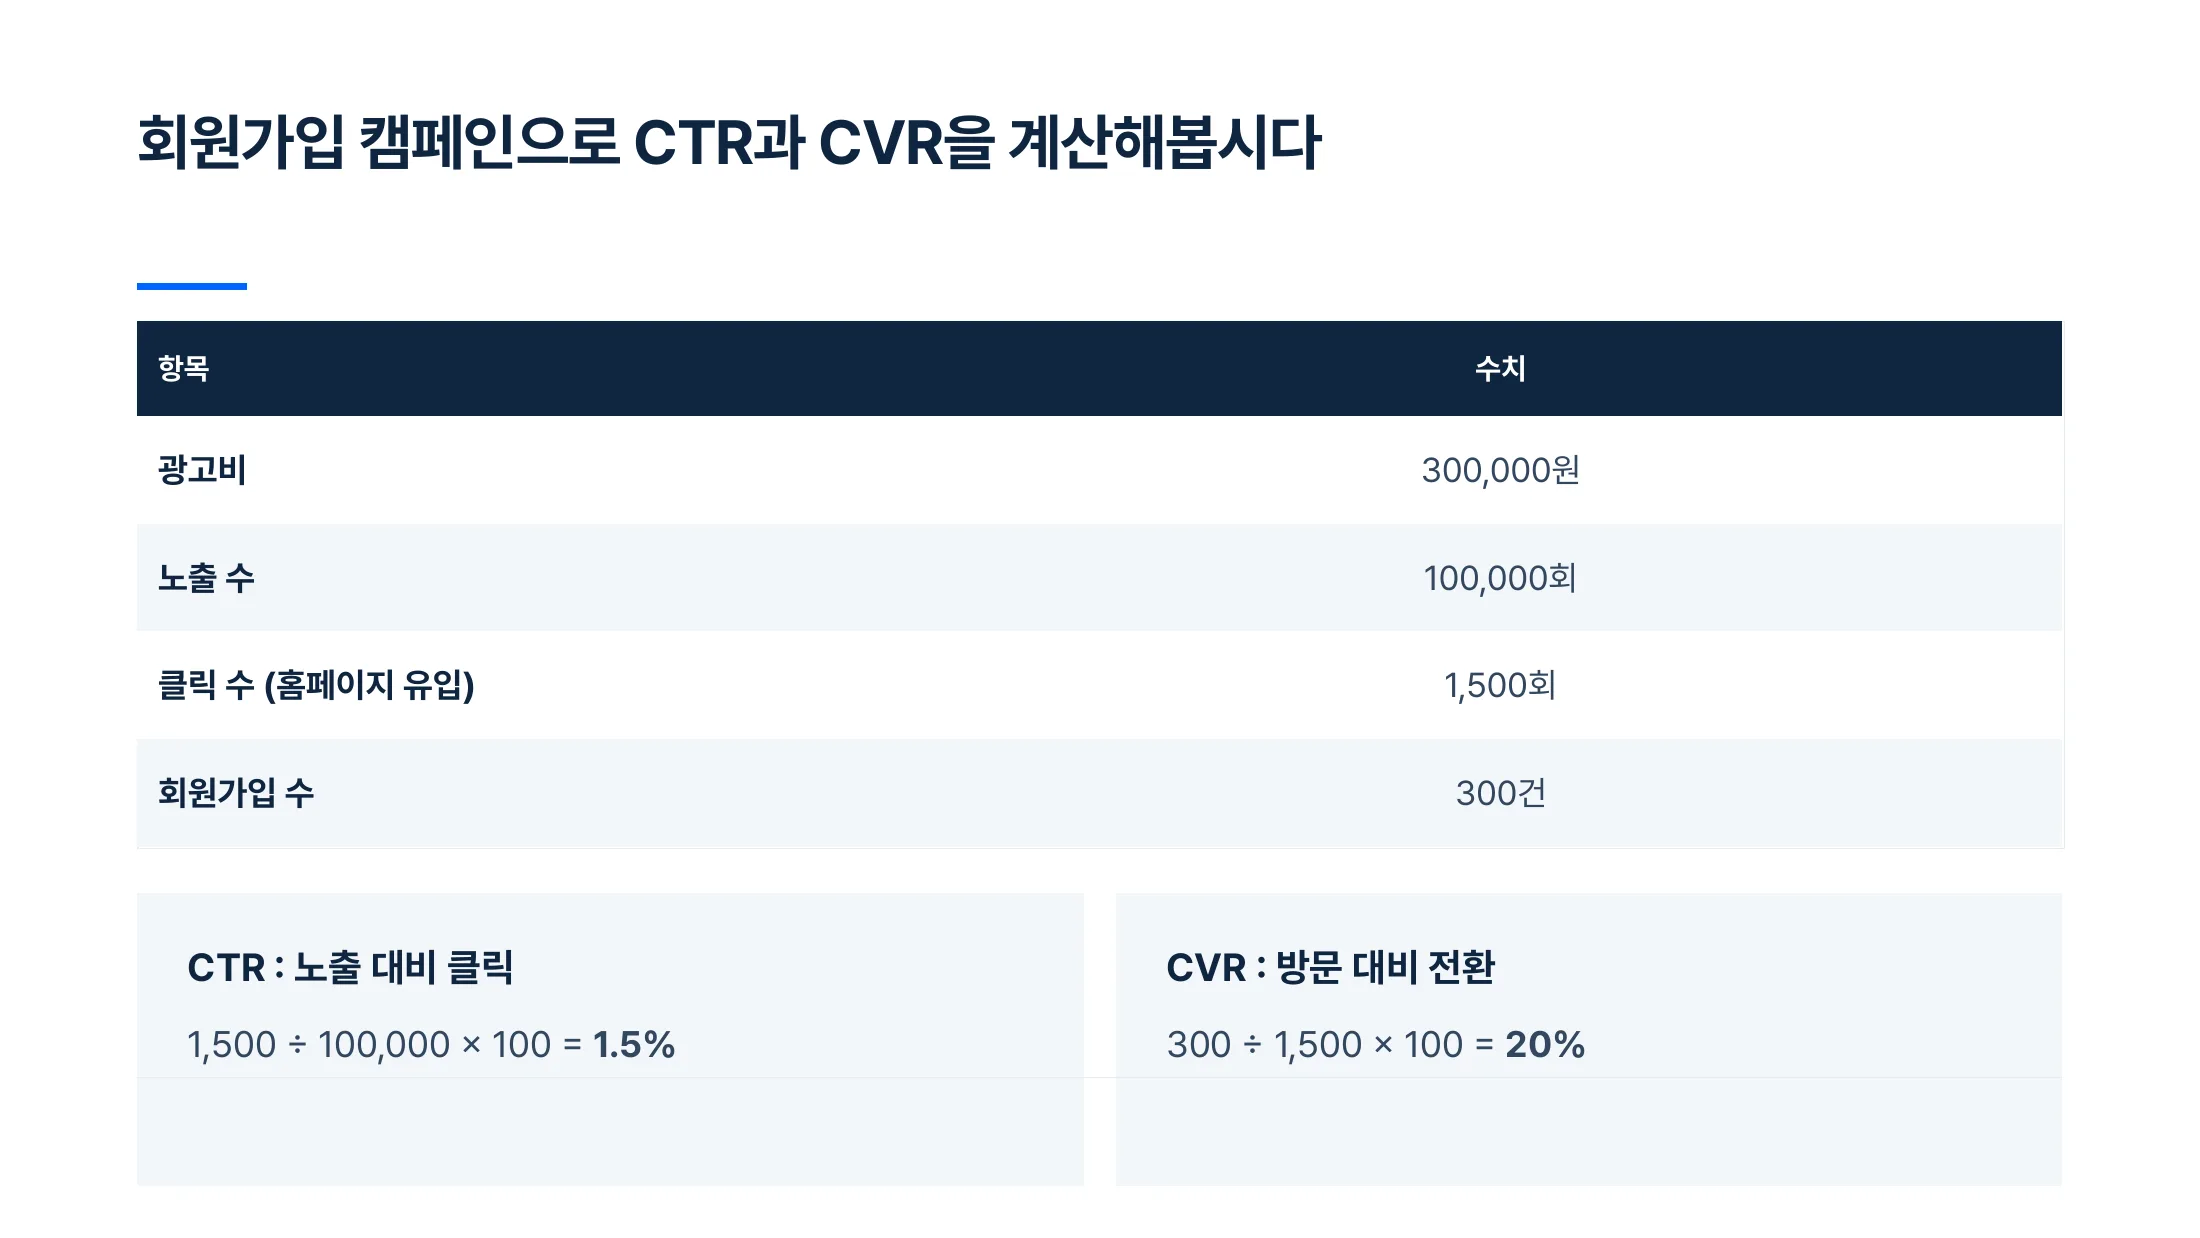
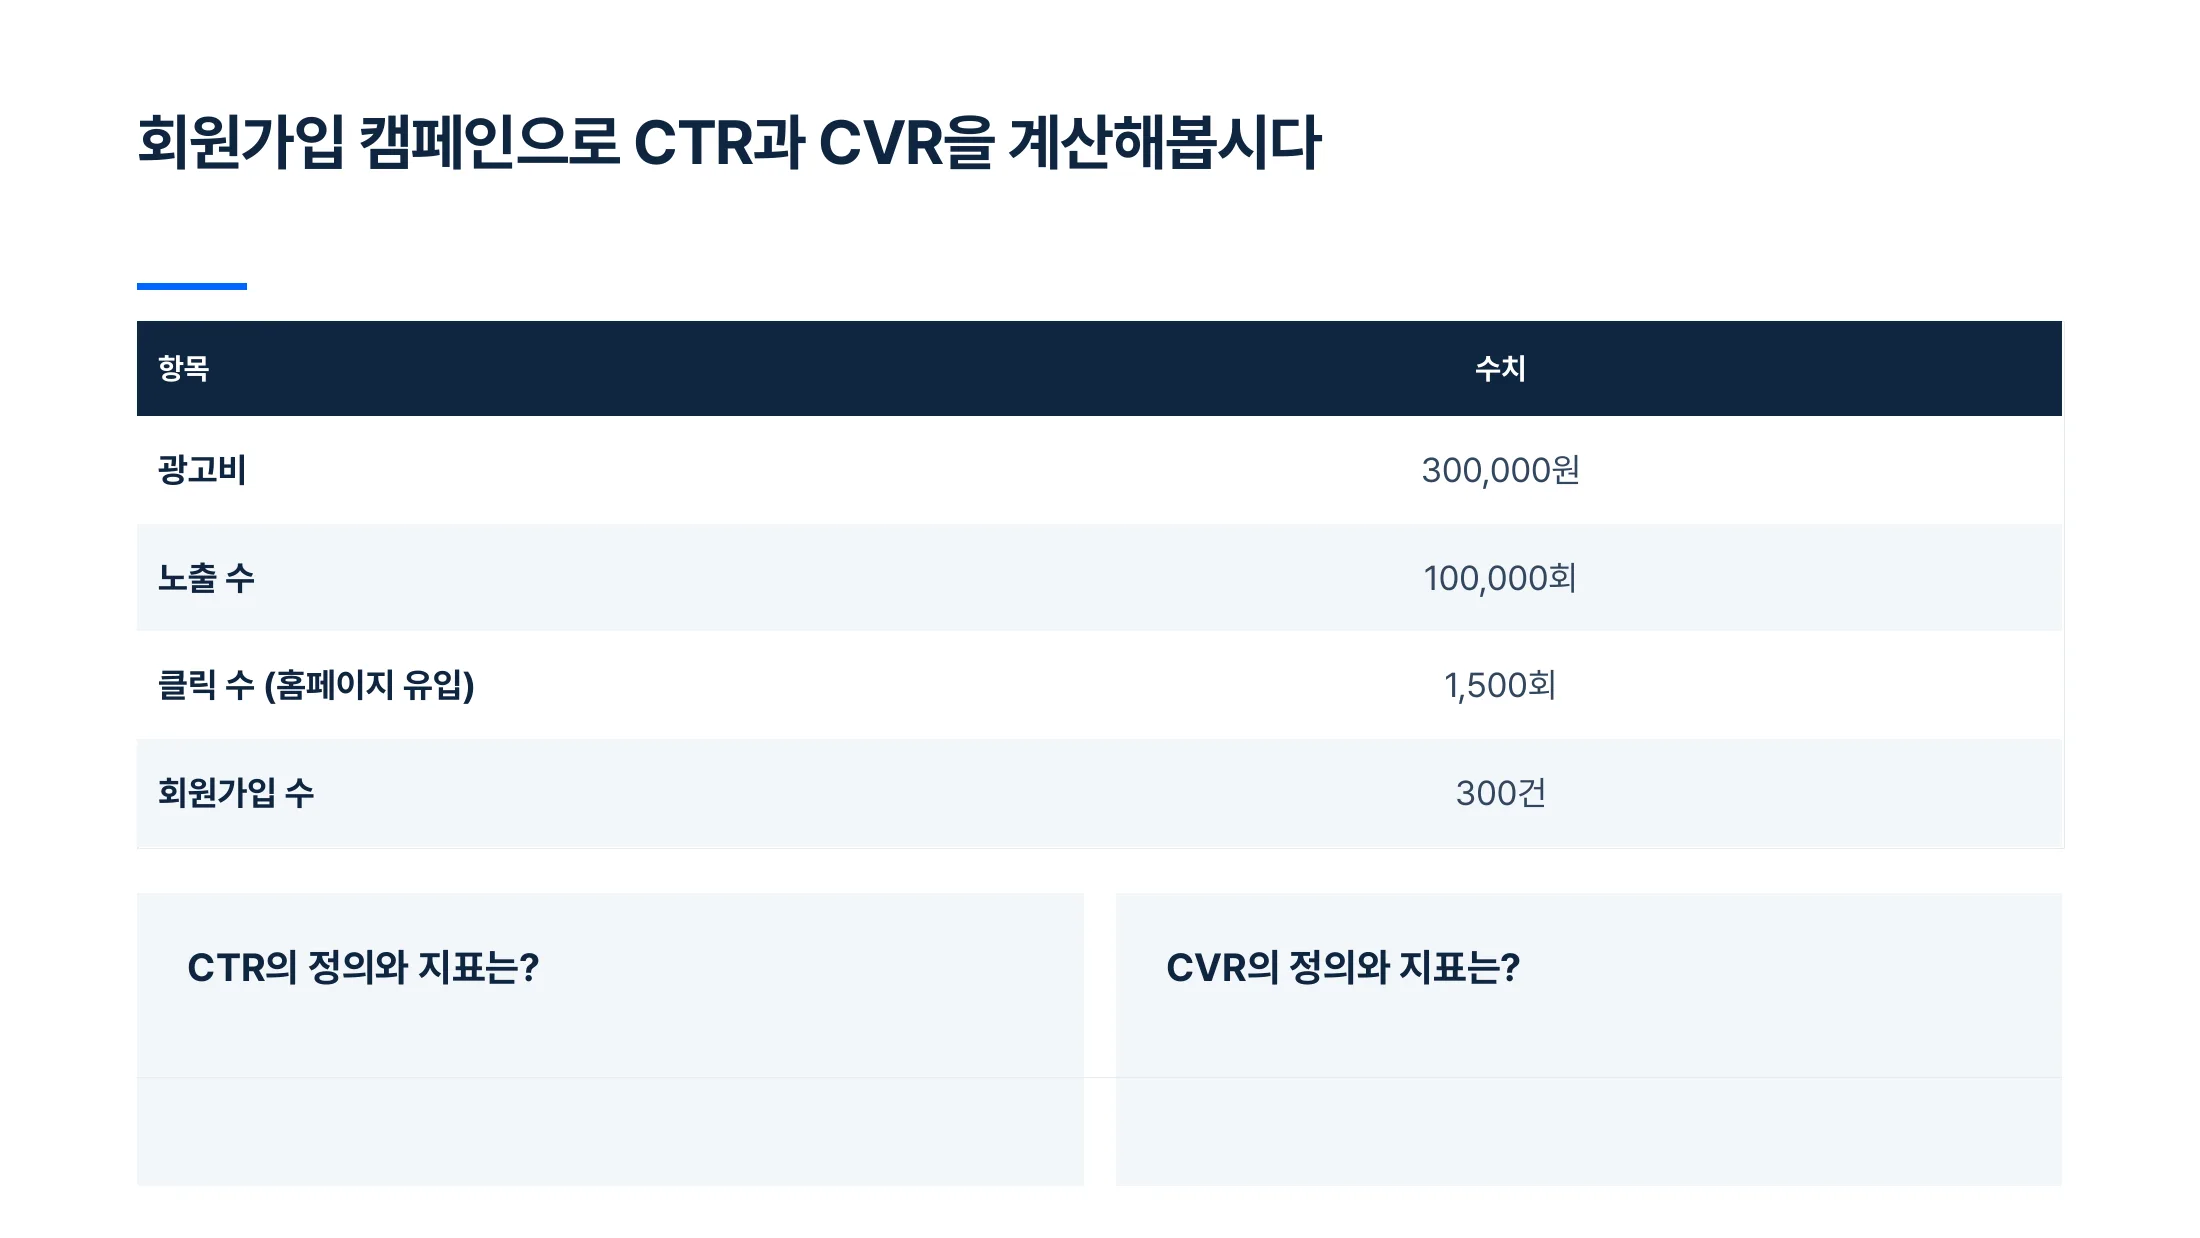
Swap Chapter 4 slides 33 and 34

diff --git a/script.js b/script.js
@@ -67,6 +67,7 @@ function showChapter(i) {
     slide.className = "slide";
     const img = document.createElement("img");
     img.src = `pages/${ch.id}/${pad(p)}.webp`;
+    if (ch.id === "ch4" && (p === 33 || p === 34)) img.src += "?order=20261106";
     img.alt = `${ch.title} - ${p}페이지`;
     img.loading = "lazy";
     slide.appendChild(img);

diff --git a/index.html b/index.html
@@ -84,6 +84,6 @@
 
   <script src="chapters.js?v=chapter4-20261105"></script>
   <script src="links.js?v=chapter4-update-20261106"></script>
-  <script src="script.js?v=chapter4-update-20261106"></script>
+  <script src="script.js?v=chapter4-order-20261106"></script>
 </body>
 </html>
